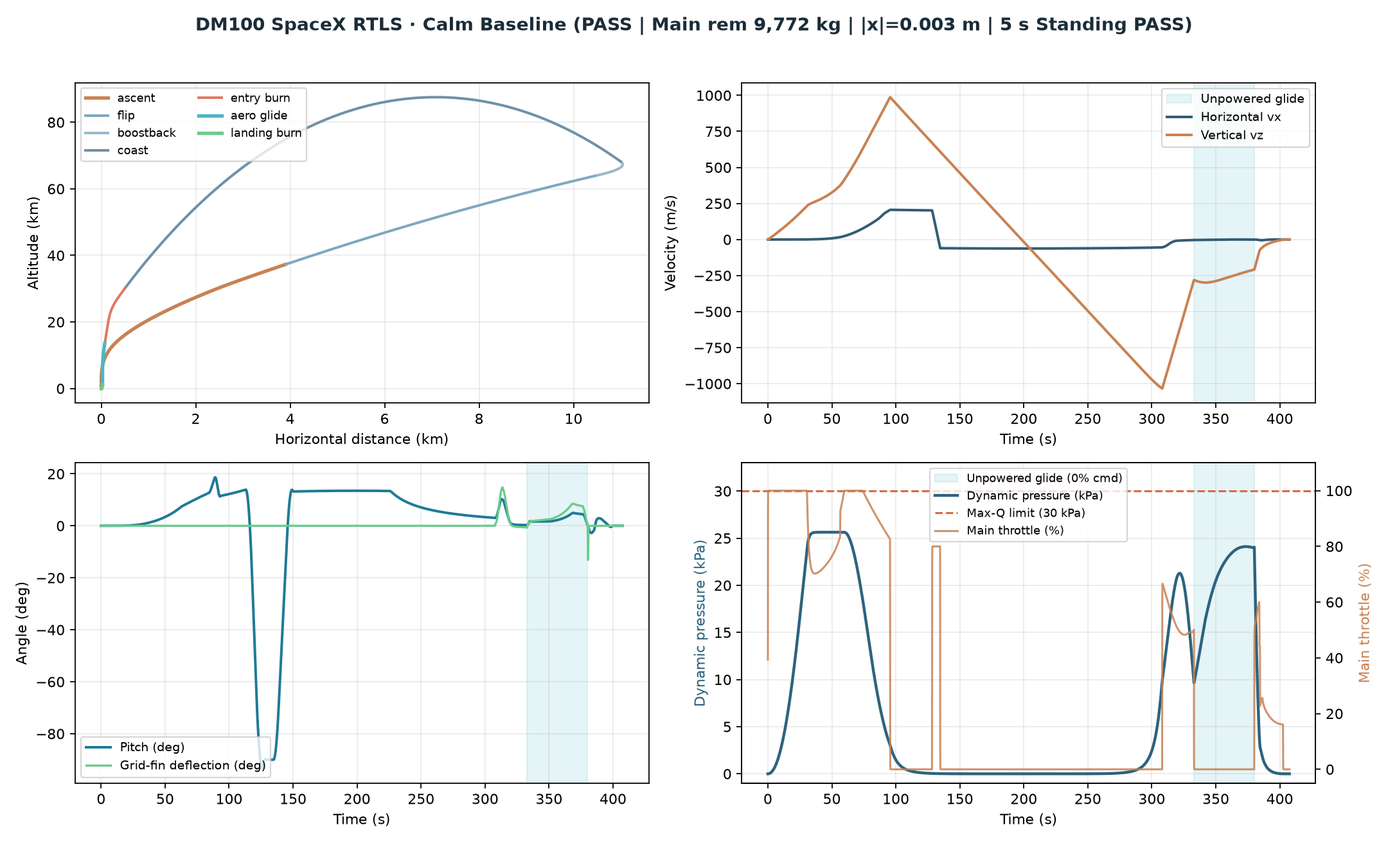
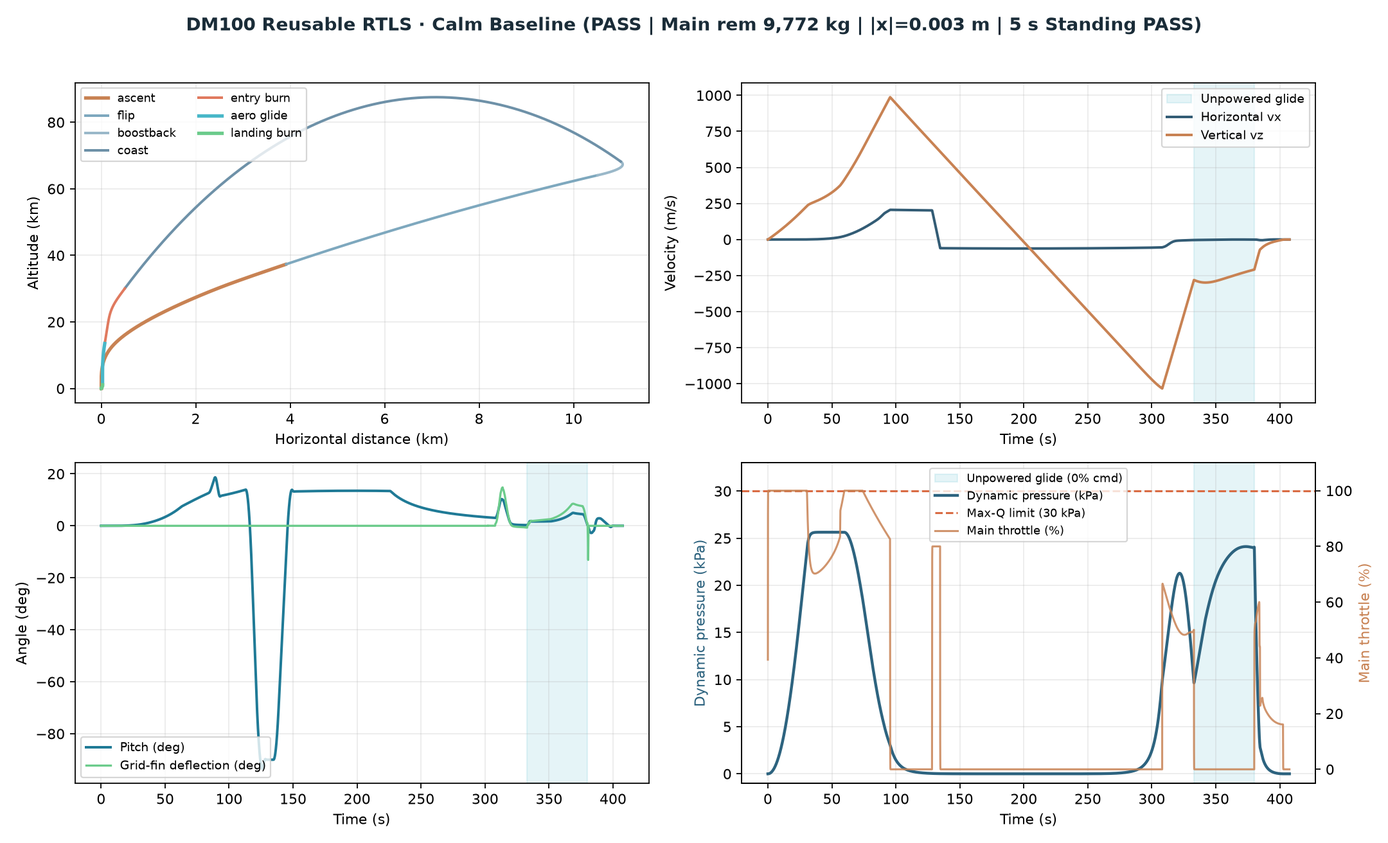
Use vendor-neutral Reusable RTLS naming and fix Korean markdown bold rendering

Changed region(s): [[0.1241, 0.0, 0.8685, 0.0625]]

diff --git a/src/powered_landing_guidance/ui/index.html b/src/powered_landing_guidance/ui/index.html
@@ -32,14 +32,14 @@ header{height:76px;background:var(--navy);color:white;display:flex;align-items:c
 <aside class="sidebar">
   <div class="eyebrow" data-i18n="configuration">FLIGHT CONFIGURATION</div><h2 data-i18n="conditions">Flight conditions</h2><p class="subtext" data-i18n="conditionsSub">Configure the environment within allowed limits.</p>
   <form id="flight-form" novalidate>
-    <div class="mode-box"><span class="small-label" data-i18n="engineMode">SpaceX RTLS · 2D Recovery</span><span class="mode-badge" id="mode-badge" data-i18n="modeNote">Flip → Boostback → Short Entry → Unpowered Grid-Fin Glide → 3→1 Hoverslam → 5 s Upright Standing</span></div>
+    <div class="mode-box"><span class="small-label" data-i18n="engineMode">Reusable RTLS · 2D Recovery</span><span class="mode-badge" id="mode-badge" data-i18n="modeNote">Flip → Boostback → Short Entry → Unpowered Grid-Fin Glide → 3→1 Hoverslam → 5 s Upright Standing</span></div>
     <div class="preset"><label class="small-label" for="preset" data-i18n="preset">Preset</label><select id="preset" disabled><option value="custom">Custom inputs</option></select></div>
     <div class="section-heading"><span data-i18n="environment">Environment</span><span class="section-number">01</span></div>
     <div class="conditions" id="wind-fields"></div><div class="two-fields" id="atmosphere-fields"></div>
     <p class="input-hint" data-i18n="densityHint">Final density must stay within ±10% of the reference atmosphere.</p>
     <details class="advanced" id="advanced"><summary data-i18n="advanced">Advanced conditions</summary><div class="advanced-content" id="advanced-fields"></div><p class="input-hint" data-i18n="profileHint">Wind varies smoothly from the ground to the upper atmosphere. Gust timing and altitude are set below.</p></details>
     <div class="form-errors hidden" id="form-errors" role="alert"></div>
-    <div class="sidebar-footer"><div class="fixed-card"><div class="fixed-title" data-i18n="fixedVehicle">Fixed vehicle · DM100</div><div class="fixed-grid"><div><span data-i18n="launchMass">Launch mass</span><strong>100 t</strong></div><div><span data-i18n="rcs">RCS propellant</span><strong>300 kg</strong></div><div><span data-i18n="controller">Controller</span><strong id="fixed-controller">SpaceX RTLS</strong></div><div><span data-i18n="seed">Seed</span><strong id="fixed-seed">—</strong></div></div></div><div><button type="submit" class="run" id="run-button" disabled><svg viewBox="0 0 14 14" fill="none" aria-hidden="true"><path d="m4 2 8 5-8 5V2Z" fill="currentColor"/></svg><span id="run-text" data-i18n="run">Run simulation</span></button><button type="button" class="reset" id="reset-button" data-i18n="reset" disabled>Reset to defaults</button></div><p class="run-note" data-i18n="runNote">Calculation and files stay on this computer.</p></div>
+    <div class="sidebar-footer"><div class="fixed-card"><div class="fixed-title" data-i18n="fixedVehicle">Fixed vehicle · DM100</div><div class="fixed-grid"><div><span data-i18n="launchMass">Launch mass</span><strong>100 t</strong></div><div><span data-i18n="rcs">RCS propellant</span><strong>300 kg</strong></div><div><span data-i18n="controller">Controller</span><strong id="fixed-controller">RTLS GNC</strong></div><div><span data-i18n="seed">Seed</span><strong id="fixed-seed">—</strong></div></div></div><div><button type="submit" class="run" id="run-button" disabled><svg viewBox="0 0 14 14" fill="none" aria-hidden="true"><path d="m4 2 8 5-8 5V2Z" fill="currentColor"/></svg><span id="run-text" data-i18n="run">Run simulation</span></button><button type="button" class="reset" id="reset-button" data-i18n="reset" disabled>Reset to defaults</button></div><p class="run-note" data-i18n="runNote">Calculation and files stay on this computer.</p></div>
   </form>
 </aside>
 <main class="main">
@@ -56,7 +56,7 @@ header{height:76px;background:var(--navy);color:white;display:flex;align-items:c
   </section>
   <div class="tabs" role="tablist" aria-label="Flight charts"><button type="button" id="tab-flight" class="active" role="tab" aria-selected="true" data-i18n="flightTab">Flight</button><button type="button" id="tab-velocity" role="tab" aria-selected="false" data-i18n="velocityTab">Velocity</button><button type="button" id="tab-propellant" role="tab" aria-selected="false" data-i18n="propellantTab">Propellant</button><button type="button" id="tab-safety" role="tab" aria-selected="false" data-i18n="safetyTab">Safety</button><button type="button" id="tab-control" role="tab" aria-selected="false" data-i18n="controlTab">Glide &amp; Control</button></div>
   <section class="charts"><article class="panel"><div class="panel-head"><div><h3 id="chart-a-title"></h3><p class="panel-caption" id="chart-a-caption"></p></div><div class="legend" id="chart-a-legend"></div></div><div class="chart" id="chart-a"></div></article><article class="panel"><div class="panel-head"><div><h3 id="chart-b-title"></h3><p class="panel-caption" id="chart-b-caption"></p></div></div><div class="chart" id="chart-b"></div></article></section>
-  <section class="phase-panel hidden" id="phase-panel"><div class="table-head"><h3 data-i18n="phaseBreakdown">SpaceX RTLS phase breakdown</h3><span class="table-sub" id="phase-meta"></span></div><div class="table-scroll"><table><thead><tr><th data-i18n="phaseCol">Phase</th><th data-i18n="durCol">Duration</th><th data-i18n="altCol">Altitude</th><th data-i18n="mainCol">Main fuel</th><th data-i18n="rcsCol">RCS</th><th data-i18n="finCol">Max fin</th><th data-i18n="qCol">Peak q</th></tr></thead><tbody id="phase-table"></tbody></table></div></section>
+  <section class="phase-panel hidden" id="phase-panel"><div class="table-head"><h3 data-i18n="phaseBreakdown">RTLS phase breakdown</h3><span class="table-sub" id="phase-meta"></span></div><div class="table-scroll"><table><thead><tr><th data-i18n="phaseCol">Phase</th><th data-i18n="durCol">Duration</th><th data-i18n="altCol">Altitude</th><th data-i18n="mainCol">Main fuel</th><th data-i18n="rcsCol">RCS</th><th data-i18n="finCol">Max fin</th><th data-i18n="qCol">Peak q</th></tr></thead><tbody id="phase-table"></tbody></table></div></section>
   <section class="lower"><article class="panel"><div class="table-head"><h3 data-i18n="assessment">Mission, safety & landing assessment</h3><span class="table-sub" data-i18n="contactOnly" data-i18n-title="speedDefinition">Landing: first touchdown</span></div><div class="table-scroll"><table><thead><tr><th data-i18n="item">Metric</th><th data-i18n="actual">Result</th><th data-i18n="limit">Limit</th><th data-i18n="status">Status</th></tr></thead><tbody id="result-table"></tbody></table></div><div class="result-actions hidden" id="result-actions"></div></article>
     <article class="video-card hidden" id="video-card">
       <div class="video-top"><h3 data-i18n="flightVideo">Flight video</h3><span class="optional" data-i18n="optional">OPTIONAL</span></div>
@@ -110,20 +110,20 @@ const criterionLabels={ascent_high_q_alpha:{en:"High-pressure ascent angle of at
 translations.en.phase_flip="Return attitude maneuver";
 translations.ko.phase_flip="귀환 자세 전환";
 Object.assign(translations.en,{
-  engineMode:"SpaceX RTLS · 2D Recovery",modeNote:"Flip → Boostback → Short Entry → Unpowered Grid-Fin Glide → 3→1 Hoverslam → 5 s Upright Standing",
+  engineMode:"Reusable RTLS · 2D Recovery",modeNote:"Flip → Boostback → Short Entry → Unpowered Grid-Fin Glide → 3→1 Hoverslam → 5 s Upright Standing",
   liveReplayTitle:"Interactive 2D flight replay",controlTab:"Glide & Control",
   finDeflection:"Grid-fin deflection",finAxis:"Fin deflection (°)",engineThrottle:"Main engine throttle",throttleAxis:"Throttle (%)",
-  phaseBreakdown:"SpaceX RTLS phase breakdown",phaseCol:"Phase",durCol:"Duration",altCol:"Altitude",mainCol:"Main fuel",rcsCol:"RCS",finCol:"Max fin",qCol:"Peak q",
+  phaseBreakdown:"RTLS phase breakdown",phaseCol:"Phase",durCol:"Duration",altCol:"Altitude",mainCol:"Main fuel",rcsCol:"RCS",finCol:"Max fin",qCol:"Peak q",
   postContactGroup:"Post-contact · 5 s engine-off leg dynamics",downloadReplay3d:"Save 50 Hz 3D Replay JSON (UE5/MuJoCo)",
   play:"Play",pause:"Pause",
   phase_entry_burn:"Entry burn",phase_aero_glide:"Unpowered glide",phase_landing_burn:"Hoverslam",phase_touchdown_settle:"5 s Standing",
   restartsMeta:"Restarts",convexMeta:"Convex LP",standingMeta:"5 s Standing"
 });
 Object.assign(translations.ko,{
-  engineMode:"SpaceX RTLS · 2D 재사용 귀환",modeNote:"플립 → 부스트백 → 단축 재진입 → 무동력 격자핀 활강 → 3→1 호버슬램 → 5초 직립 안정",
+  engineMode:"RTLS · 2D 재사용 귀환",modeNote:"플립 → 부스트백 → 단축 재진입 → 무동력 격자핀 활강 → 3→1 호버슬램 → 5초 직립 안정",
   liveReplayTitle:"인터랙티브 2D 실시간 비행 리플레이",controlTab:"활강·제어",
   finDeflection:"격자핀 조향각",finAxis:"핀 조향각 (°)",engineThrottle:"주엔진 스로틀",throttleAxis:"스로틀 (%)",
-  phaseBreakdown:"SpaceX RTLS 비행 단계별 분석",phaseCol:"비행 단계",durCol:"소요 시간",altCol:"고도 구간",mainCol:"주추진제",rcsCol:"RCS",finCol:"최대 핀각",qCol:"최대 동압",
+  phaseBreakdown:"RTLS 비행 단계별 분석",phaseCol:"비행 단계",durCol:"소요 시간",altCol:"고도 구간",mainCol:"주추진제",rcsCol:"RCS",finCol:"최대 핀각",qCol:"최대 동압",
   postContactGroup:"접지 이후 · 5초 무동력 착륙다리 동역학",downloadReplay3d:"50 Hz 3D 리플레이 JSON 저장 (UE5/MuJoCo)",
   play:"재생",pause:"일시정지",
   phase_entry_burn:"단축 재진입 연소",phase_aero_glide:"무동력 격자핀 활강",phase_landing_burn:"호버슬램 착륙 연소",phase_touchdown_settle:"5초 직립 안정",

diff --git a/scripts/render_visuals.py b/scripts/render_visuals.py
@@ -1,5 +1,5 @@
 # ruff: noqa: E501
-"""Generate DM100 SpaceX RTLS visuals from recorded 487-case results & 50 Hz replays."""
+"""Generate DM100 Reusable RTLS visuals from recorded 487-case results & 50 Hz replays."""
 
 from __future__ import annotations
 
@@ -127,11 +127,11 @@ def render_thumbnail_svg(calm_frames: list[dict], summary: dict) -> str:
     passed = summary["overall"]["passed"]
 
     return f"""<svg xmlns="http://www.w3.org/2000/svg" width="1200" height="760" viewBox="0 0 1200 760" role="img" aria-labelledby="title desc">
-<title id="title">DM100 SpaceX 방식 2D 로켓 발사와 1단 귀환</title>
+<title id="title">DM100 재사용 RTLS 방식 2D 로켓 발사와 1단 귀환</title>
 <desc id="desc">100톤 로켓의 상승, 37 km 콜드 분리, 플립, 부스트백, 단축 재진입, 12.4 km 무동력 격자핀 활강, 3->1 호버슬램 착륙 및 5초 직립 동역학을 계산한 실제 궤적입니다.</desc>
 <style>{FONT_STYLE}</style>
 <rect width="1200" height="760" fill="#111D25"/>
-<text x="48" y="76" font-size="46" fill="#EDF4F4" font-weight="750">DM100 · SpaceX RTLS 1단 재사용</text>
+<text x="48" y="76" font-size="46" fill="#EDF4F4" font-weight="750">DM100 · 1단 재사용 RTLS</text>
 <text x="48" y="122" font-size="24" fill="#A9BFC9" font-weight="500">무동력 격자핀 활강(12.4 km) · 3→1 호버슬램 · 접지 후 5초 착륙다리 직립 동역학</text>
 <line x1="48" y1="146" x2="1152" y2="146" stroke="#364E5B" stroke-width="1.2"/>
 
@@ -166,7 +166,7 @@ def render_thumbnail_svg(calm_frames: list[dict], summary: dict) -> str:
 
 <rect x="48" y="688" width="1104" height="48" rx="12" fill="#1D3340"/>
 <text x="72" y="720" font-size="21" fill="#D6E4E8" font-weight="500">Plant ↔ Forces ↔ GNC 경계 분리 · 인과적 상태 추정 · 볼록 LP 참조 플래너</text>
-<text x="1128" y="720" font-size="20" fill="#9BB3BF" text-anchor="end">DM100 2D SpaceX RTLS</text>
+<text x="1128" y="720" font-size="20" fill="#9BB3BF" text-anchor="end">DM100 2D Reusable RTLS</text>
 </svg>
 """
 
@@ -233,7 +233,7 @@ def render_validation_svg(summary: dict) -> str:
 <style>{FONT_STYLE}</style>
 <rect width="1200" height="700" fill="#111D25"/>
 <text x="48" y="60" font-size="36" fill="#EDF4F4" font-weight="750">전체 487케이스 일괄 검증 및 안전 여유 분포</text>
-<text x="48" y="98" font-size="21" fill="#A9BFC9">총 487/487 통과 (100.0%) · 5초 무동력 착륙다리 직립 487/487 통과 · 단일 통합 SpaceX RTLS 엔진</text>
+<text x="48" y="98" font-size="21" fill="#A9BFC9">총 487/487 통과 (100.0%) · 5초 무동력 착륙다리 직립 487/487 통과 · 단일 통합 재사용 RTLS 엔진</text>
 {"".join(cards)}
 
 <rect x="48" y="346" width="1104" height="304" rx="18" fill="#152631" stroke="#2B4250"/>
@@ -300,11 +300,11 @@ def render_propellant_svg(calm_frames: list[dict], summary: dict) -> str:
     med_glide = float(np.median(glides))
 
     return f"""<svg xmlns="http://www.w3.org/2000/svg" width="1200" height="650" viewBox="0 0 1200 650" role="img" aria-labelledby="title desc">
-<title id="title">DM100 SpaceX RTLS 귀환 단계별 추진제 예산과 무동력 활강</title>
+<title id="title">DM100 RTLS 귀환 단계별 추진제 예산과 무동력 활강</title>
 <desc id="desc">단 분리 이후 귀환 단계별 주추진제와 RCS 소모량, 무동력 격자핀 활강 구간 및 487케이스 잔여 추진제 분포입니다.</desc>
 <style>{FONT_STYLE}</style>
 <rect width="1200" height="650" fill="#111D25"/>
-<text x="48" y="60" font-size="36" fill="#EDF4F4" font-weight="750">SpaceX RTLS 귀환 단계별 추진제 예산</text>
+<text x="48" y="60" font-size="36" fill="#EDF4F4" font-weight="750">RTLS 귀환 단계별 추진제 예산</text>
 <text x="48" y="98" font-size="21" fill="#A9BFC9">무동력 격자핀 활강으로 연료를 절약하고, 종말 3→1 호버슬램으로 착륙합니다 (무풍 기준 궤적 + 487케이스 통계)</text>
 
 <rect x="48" y="132" width="1104" height="444" rx="18" fill="#152631" stroke="#2B4250"/>
@@ -396,11 +396,11 @@ def render_trajectory_svg(calm_frames: list[dict], weather_frames: list[dict]) -
     )
 
     return f"""<svg xmlns="http://www.w3.org/2000/svg" width="1200" height="700" viewBox="0 0 1200 700" role="img" aria-labelledby="title desc">
-<title id="title">DM100 SpaceX RTLS 비행 궤적 및 동압·스로틀 프로파일</title>
+<title id="title">DM100 RTLS 비행 궤적 및 동압·스로틀 프로파일</title>
 <desc id="desc">무풍 기준과 복합 기상 비행의 2차원 귀환 궤적, 3회 재점화 스로틀 펄스, 47초 무동력 격자핀 활강 구간 및 동압 한계(30 kPa) 준수 결과입니다.</desc>
 <style>{FONT_STYLE}</style>
 <rect width="1200" height="700" fill="#111D25"/>
-<text x="48" y="60" font-size="36" fill="#EDF4F4" font-weight="750">SpaceX RTLS 궤적 및 무동력 활강·동압 프로파일</text>
+<text x="48" y="60" font-size="36" fill="#EDF4F4" font-weight="750">RTLS 궤적 및 무동력 활강·동압 프로파일</text>
 <text x="48" y="96" font-size="20" fill="#A9BFC9">무풍 기준(실선)과 복합 기상(점선) 비교 · 재점화 3회(부스트백·재진입·착륙)와 47초 무동력 활강 구간 확인</text>
 
 <rect x="48" y="130" width="538" height="500" rx="16" fill="#152631" stroke="#2B4250"/>
@@ -448,7 +448,7 @@ def render_trajectory_png(calm_frames: list[dict], out_path: Path) -> None:
     fig, axes = plt.subplots(2, 2, figsize=(13.5, 8.2), dpi=160)
     fig.patch.set_facecolor("#ffffff")
     fig.suptitle(
-        "DM100 SpaceX RTLS · Calm Baseline (PASS | Main rem 9,772 kg | |x|=0.003 m | 5 s Standing PASS)",
+        "DM100 Reusable RTLS · Calm Baseline (PASS | Main rem 9,772 kg | |x|=0.003 m | 5 s Standing PASS)",
         fontsize=12.5,
         fontweight="bold",
         color="#1a2c38",

diff --git a/src/powered_landing_guidance/rtls/guidance.py b/src/powered_landing_guidance/rtls/guidance.py
@@ -1,4 +1,4 @@
-"""SpaceX Falcon 9-style 2D RTLS GNC Core (Engine-agnostic, 3D MuJoCo ready).
+"""Reusable 2D RTLS GNC Core (Engine-agnostic, 3D MuJoCo ready).
 
 Mission phases:
   1. ascent       : 3-engine gravity turn to 37 km cold-separation gate, MECO-1
@@ -157,8 +157,8 @@ class RtlsGuidanceSettings:
     ignition_height_margin_m: float = 75.0
 
 
-class SpaceXRtlsController:
-    """Strictly causal SpaceX-style RTLS controller implementing ControllerProtocol."""
+class RtlsController:
+    """Strictly causal Reusable RTLS controller implementing ControllerProtocol."""
 
     def __init__(
         self,
@@ -1121,10 +1121,10 @@ class SpaceXRtlsController:
             fx_req = fz_req * sin(direction) / max(cos(direction), 0.5)
 
         f_mag = hypot(fx_req, fz_req)
-        # Strictly enforce SpaceX per-engine throttle bounds [min, max]!
+        # Strictly enforce Cluster per-engine throttle bounds [min, max]!
         throttle = self.propulsion.quantize_throttle(f_mag / max(full_t, 1.0), active_engines)
 
-        # SpaceX Hoverslam anti-bounce MECO-3 guard: if already zeroing velocity right above deck,
+        # Hoverslam anti-bounce MECO-3 guard: if already zeroing velocity right above deck,
         # cut engine immediately rather than bouncing upward under TWR_min > 1.0!
         meco3_cut = self.landing_single_engine and h <= 0.25 and est.vz_m_s >= -0.20
         if meco3_cut:
@@ -1181,7 +1181,7 @@ class SpaceXRtlsController:
         )
 
     def step(self, telemetry: TelemetryPacket) -> ActuatorCommand:
-        """Main 50 Hz GNC step: causal estimation -> SpaceX phase guidance -> allocation."""
+        """Main 50 Hz GNC step: causal estimation -> RTLS phase guidance -> allocation."""
         est = self.estimator.observe(telemetry)
 
         # Phase 7: Post-touchdown immediate cutoff & settle
@@ -1400,7 +1400,7 @@ class SpaceXRtlsController:
             else:
                 vx_air, vz_air = self._air_velocity(est)
                 flow_retro = self._retro_angle(vx_air, vz_air)
-                # Gentle +/-5 deg SpaceX entry-burn steering to zero IIP into glide window:
+                # Gentle +/-5 deg RTLS entry-burn steering to zero IIP into glide window:
                 # thrust points along (+sin(theta), +cos(theta)), so when x_iip > 0 (East)
                 # tilt theta slightly NEGATIVE (pushing West), and vice versa.
                 if est.time_s >= self.last_iip_time_s + 0.40 - 1e-9:

diff --git a/tests/test_rtls.py b/tests/test_rtls.py
@@ -1,4 +1,4 @@
-"""Unit and integration tests for DM100 SpaceX-style RTLS recovery."""
+"""Unit and integration tests for DM100 Reusable RTLS recovery."""
 
 from __future__ import annotations
 
@@ -23,10 +23,10 @@ from powered_landing_guidance.rtls import (
     PlantConfig,
     PriorityControlAllocator,
     RtlsAerodynamics,
+    RtlsController,
     RtlsFinSettings,
     RtlsFlight,
     RtlsPropulsionSettings,
-    SpaceXRtlsController,
     TelemetryPacket,
     WindLUT,
     compute_body_aero,
@@ -281,14 +281,14 @@ def test_strict_causality_controller_ignores_hidden_density_scale() -> None:
     # Build two controllers with identical forecast conditions except hidden density_scale
     c_nom = AprConditions(density_scale=1.0)
     c_hidden = AprConditions(density_scale=1.10)
-    ctrl_a = SpaceXRtlsController(
+    ctrl_a = RtlsController(
         design=RtlsFlight().design,
         conditions=c_nom,
         aero=RtlsAerodynamics(),
         fins=RtlsFinSettings(),
         propulsion=RtlsPropulsionSettings(),
     )
-    ctrl_b = SpaceXRtlsController(
+    ctrl_b = RtlsController(
         design=RtlsFlight().design,
         conditions=c_hidden,
         aero=RtlsAerodynamics(),
@@ -335,7 +335,7 @@ def test_rtls_calm_end_to_end_and_replay_export(tmp_path: Path) -> None:
     assert res["post_contact"]["standing_stable"] is True
     assert res["convex_reference_feasible"] is True
 
-    # Verify true SpaceX unpowered grid-fin aerodynamic glide (>99% engine-off, tail-off only)!
+    # Verify true unpowered grid-fin aerodynamic glide (>99% engine-off, tail-off only)!
     ag = res["phases"]["aero_glide"]
     assert ag["active_fraction"] < 0.01
     assert ag["main_used_kg"] < 25.0

diff --git a/src/powered_landing_guidance/rtls/forces.py b/src/powered_landing_guidance/rtls/forces.py
@@ -4,7 +4,7 @@ Designed as a pure force/torque module that:
   1. Eliminates per-step dataclass allocation and Python loop overhead (~20x faster).
   2. Separates nose-first ascent drag from tail-first blunt-base descent drag and
      models realistic grid-fin effective angle of attack (alpha_eff = delta - alpha_retro).
-  3. Enforces SpaceX-style multi-engine cluster throttling (3 x 533.3 kN = 1,600 kN)
+  3. Enforces Reusable multi-engine cluster throttling (3 x 533.3 kN = 1,600 kN)
      with realistic per-engine minimum throttle (non-hovering Hoverslam on 1 engine)
      and bounded restart count.
   4. Can be plugged directly into MuJoCo's `xfrc_applied` callback in Stage 2 (3D).
@@ -64,7 +64,7 @@ class RtlsAerodynamics:
 
 @dataclass(frozen=True, slots=True)
 class RtlsFinSettings:
-    """SpaceX-style grid-fin parameters with effective angle-of-attack physics."""
+    """Reusable grid-fin parameters with effective angle-of-attack physics."""
 
     surface_mass_kg: float = FINS.surface_mass_kg
     actuator_mass_kg: float = FINS.actuator_mass_kg
@@ -101,7 +101,7 @@ class RtlsFinSettings:
 
 @dataclass(frozen=True, slots=True)
 class RtlsPropulsionSettings:
-    """SpaceX-style 3-engine cluster (3 x 533.3 kN = 1,600 kN) with throttle floor.
+    """Reusable 3-engine cluster (3 x 533.3 kN = 1,600 kN) with throttle floor.
 
     Total thrust, Isp, and nozzle exit area match the 100 t DM100 Design.
     Each individual engine throttles only within [min_engine_throttle, 1.0] or OFF.

diff --git a/src/powered_landing_guidance/rtls/flight.py b/src/powered_landing_guidance/rtls/flight.py
@@ -1,4 +1,4 @@
-"""High-level SpaceX-style RTLS flight runner for DM100."""
+"""High-level Reusable RTLS flight runner for DM100."""
 
 from __future__ import annotations
 
@@ -18,13 +18,13 @@ from powered_landing_guidance.rtls.forces import (
     RtlsFinSettings,
     RtlsPropulsionSettings,
 )
-from powered_landing_guidance.rtls.guidance import RtlsGuidanceSettings, SpaceXRtlsController
+from powered_landing_guidance.rtls.guidance import RtlsController, RtlsGuidanceSettings
 from powered_landing_guidance.rtls.plant_2d import Plant2D, PlantConfig
 from powered_landing_guidance.rtls.replay import export_replay_json
 
 
 class RtlsFlight:
-    """Orchestrates Plant2D <-> SpaceXRtlsController strictly through Telemetry/Command."""
+    """Orchestrates Plant2D <-> RtlsController strictly through Telemetry/Command."""
 
     def __init__(
         self,
@@ -67,7 +67,7 @@ class RtlsFlight:
             ascent_settings=self.ascent_settings,
             config=self.plant_config,
         )
-        self.controller = SpaceXRtlsController(
+        self.controller = RtlsController(
             design=self.design,
             conditions=self.conditions,
             aero=self.aero,

diff --git a/src/powered_landing_guidance/rtls/__init__.py b/src/powered_landing_guidance/rtls/__init__.py
@@ -1,4 +1,4 @@
-"""DM100 SpaceX-style RTLS package (2D Plant -> 3D MuJoCo -> UE5 Replay)."""
+"""DM100 Reusable RTLS package (2D Plant -> 3D MuJoCo -> UE5 Replay)."""
 
 from powered_landing_guidance.rtls.contact import ContactSettings, evaluate_ground_contact
 from powered_landing_guidance.rtls.control_allocation import (
@@ -22,7 +22,7 @@ from powered_landing_guidance.rtls.forces import (
     compute_fin_aero,
     compute_forces_and_torques,
 )
-from powered_landing_guidance.rtls.guidance import RtlsGuidanceSettings, SpaceXRtlsController
+from powered_landing_guidance.rtls.guidance import RtlsController, RtlsGuidanceSettings
 from powered_landing_guidance.rtls.interfaces import (
     ActuatorCommand,
     ContactSample,
@@ -58,7 +58,7 @@ __all__ = [
     "RtlsFlight",
     "RtlsGuidanceSettings",
     "RtlsPropulsionSettings",
-    "SpaceXRtlsController",
+    "RtlsController",
     "TelemetryPacket",
     "WindLUT",
     "compute_body_aero",

diff --git a/src/powered_landing_guidance/local_app.py b/src/powered_landing_guidance/local_app.py
@@ -972,7 +972,7 @@ def _run_rtls_flight(
     cancel,
     replay_path: Path,
 ) -> dict:
-    """Run DM100 SpaceX-style RTLS flight and return a UI/video-compatible record."""
+    """Run DM100 Reusable RTLS flight and return a UI/video-compatible record."""
     from powered_landing_guidance.rtls import PlantConfig, RtlsFlight
 
     flight = RtlsFlight(
@@ -1125,7 +1125,7 @@ def _run_rtls_flight(
     failures = [] if passed else ([summary["outcome"]] if summary["outcome"] != "landed" else [])
     return dict(
         description=(
-            "DM100 SpaceX RTLS 2D 모델 (플립·부스트백·단축 재진입·무동력 격자핀 활강·"
+            "DM100 재사용 RTLS 2D 모델 (플립·부스트백·단축 재진입·무동력 격자핀 활강·"
             "3→1 최소 스로틀 호버슬램·접지 후 5초 착륙다리 직립 동역학)"
         ),
         environment_version=OPERATING_SCOPE,

diff --git a/src/powered_landing_guidance/apr_recovery.py b/src/powered_landing_guidance/apr_recovery.py
@@ -1,6 +1,6 @@
 """DM100 100 t vehicle design, operating environment, disturbance, and safety definitions.
 
-Shared physical configuration dataclasses for the DM100 2D SpaceX-style RTLS
+Shared physical configuration dataclasses for the DM100 2D Reusable RTLS
 launch and first-stage recovery simulator.
 """
 
@@ -31,7 +31,7 @@ from powered_landing_guidance.vehicle_systems import (
     slosh_displacement,
 )
 
-RETURN_METHOD = "SpaceX RTLS"
+RETURN_METHOD = "Reusable RTLS"
 ASSUMED_UPPER_STAGE_ORBIT_ALTITUDE_M = 700_000.0
 
 
@@ -71,7 +71,7 @@ class RecoveryDisturbances:
 
 @dataclass(frozen=True)
 class FinSettings:
-    """Assumed equivalent control surfaces, not a measured Falcon 9 grid-fin map."""
+    """Assumed equivalent control surfaces, not a measured flight-vehicle grid-fin map."""
 
     surface_mass_kg: float = 360.0
     actuator_mass_kg: float = 160.0

diff --git a/scripts/run_flight.py b/scripts/run_flight.py
@@ -1,4 +1,4 @@
-"""Run a DM100 2D SpaceX-style RTLS flight (Flip -> Boostback -> Entry -> Glide -> Hoverslam).
+"""Run a DM100 2D Reusable RTLS flight (Flip -> Boostback -> Entry -> Glide -> Hoverslam).
 
 Outputs phase-by-phase telemetry, propellant accounting, post-touchdown landing-leg
 standing stability, and optionally exports a 50 Hz ENU + unit-quaternion replay file
@@ -47,7 +47,7 @@ def _load_scenario(
 
 def _format_report(result: dict, scenario_label: str) -> str:
     lines = [
-        f"=== DM100 SpaceX RTLS Flight Report ({scenario_label}) ===",
+        f"=== DM100 Reusable RTLS Flight Report ({scenario_label}) ===",
         (
             f"Outcome: {result['outcome']} | Passed: {result['requirements_passed']} | "
             f"Failed: {result['failed_criteria']} | Wall time: {result['wall_seconds']:.2f} s"

diff --git a/src/powered_landing_guidance/visualization.py b/src/powered_landing_guidance/visualization.py
@@ -1302,7 +1302,7 @@ class _NominalFlightAnimationScene:
                     f"엔진 OFF · 5초 착륙다리 동역학 ({stable_txt})"
                 )
                 self.footer.set_text(
-                    "DM100 SpaceX RTLS · 접지 후 5초 물리 안정화 평가 · 2단 궤도 미계산"
+                    "DM100 Reusable RTLS · 접지 후 5초 물리 안정화 평가 · 2단 궤도 미계산"
                 )
             else:
                 self.event.set_text(

diff --git a/scripts/evaluate_validation.py b/scripts/evaluate_validation.py
@@ -1,4 +1,4 @@
-"""Comprehensive validation and extreme edge-case evaluator for DM100 SpaceX RTLS.
+"""Comprehensive validation and extreme edge-case evaluator for DM100 Reusable RTLS.
 
 Supports:
   - --suite edge-cases       : 32 adversarial boundary corners (including 100%-limit nightmares)
